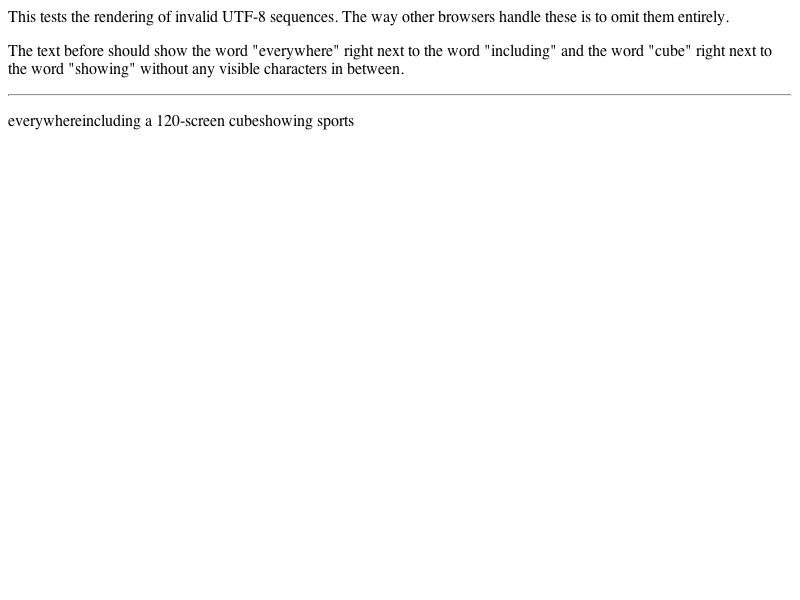
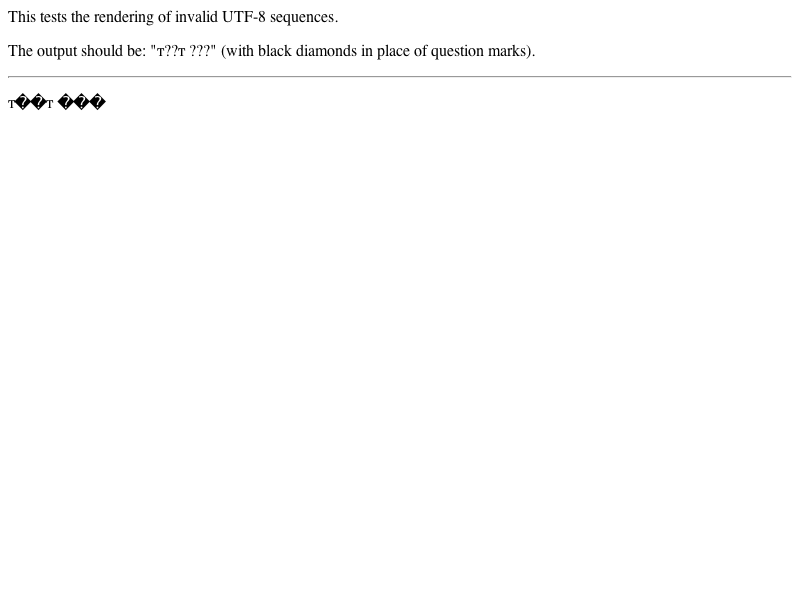
Reviewed by Darin.
- http://bugzilla.opendarwin.org/show_bug.cgi?id=8972
        REGRESSION: invalid UTF-8 sequences are not displayed

        Test: LayoutTests/fast/encoding/invalid-UTF-8.html

        * dom/xml_tokenizer.cpp:
        (WebCore::getXHTMLEntity): Properly null-terminate the result. This didn't matter
        before, because the garbage at the end was guaranteed to be invalid UTF-8, and was
        omitted in appendOmittingUnwanted();

        * platform/StreamingTextDecoder.cpp:
        (WebCore::StreamingTextDecoder::appendOmittingBOM): Only omit BOM characters.
        Renamed back from appendOmittingUnwanted();

        (WebCore::StreamingTextDecoder::convertUsingICU):
        * platform/StreamingTextDecoder.h:
        Update for the above function renaming.

Identifier: 12536@main
git-svn-id: https://svn.webkit.org/repository/webkit/trunk@14911 268f45cc-cd09-0410-ab3c-d52691b4dbfc

Changed region(s): [[0.0, 0.0, 0.9688, 0.21]]

diff --git a/WebCore/platform/StreamingTextDecoder.cpp b/WebCore/platform/StreamingTextDecoder.cpp
@@ -42,7 +42,6 @@ StreamingTextDecoder::StreamingTextDecoder(const TextEncoding& encoding)
 {
 }
 
-static const UChar replacementCharacter = 0xFFFD;
 static const UChar BOM = 0xFEFF;
 static const size_t ConversionBufferSize = 16384;
     
@@ -179,22 +178,15 @@ void StreamingTextDecoder::createICUConverter()
     }
 }
 
-// We strip replacement characters because the ICU converter for UTF-8 converts
-// invalid sequences into replacement characters, but other browsers discard them.
 // We strip BOM characters because they can show up both at the start of content
 // and inside content, and we never want them to end up in the decoded text.
-static inline bool unwanted(UChar c)
-{
-    return c == replacementCharacter || c == BOM;
-}
-
-void StreamingTextDecoder::appendOmittingUnwanted(DeprecatedString& s, const UChar* characters, int byteCount)
+void StreamingTextDecoder::appendOmittingBOM(DeprecatedString& s, const UChar* characters, int byteCount)
 {
     ASSERT(byteCount % sizeof(UChar) == 0);
     int start = 0;
     int characterCount = byteCount / sizeof(UChar);
     for (int i = 0; i != characterCount; ++i) {
-        if (unwanted(characters[i])) {
+        if (BOM == characters[i]) {
             if (start != i)
                 s.append(reinterpret_cast<const QChar*>(&characters[start]), i - start);
             start = i + 1;
@@ -228,7 +220,7 @@ DeprecatedString StreamingTextDecoder::convertUsingICU(const unsigned char* chs,
         err = U_ZERO_ERROR;
         ucnv_toUnicode(m_converterICU, &target, targetLimit, &source, sourceLimit, offsets, flush, &err);
         int count = target - buffer;
-        appendOmittingUnwanted(result, reinterpret_cast<const UChar*>(buffer), count * sizeof(UChar));
+        appendOmittingBOM(result, reinterpret_cast<const UChar*>(buffer), count * sizeof(UChar));
     } while (err == U_BUFFER_OVERFLOW_ERROR);
 
     if (U_FAILURE(err)) {

diff --git a/WebCore/dom/xml_tokenizer.cpp b/WebCore/dom/xml_tokenizer.cpp
@@ -717,7 +717,7 @@ static xmlEntityPtr getXHTMLEntity(const xmlChar* name)
     assert(value.length() < 5);
     sharedXHTMLEntity.length = value.length();
     sharedXHTMLEntity.name = name;
-    memcpy(sharedXHTMLEntityResult, value.data(), sharedXHTMLEntity.length);
+    memcpy(sharedXHTMLEntityResult, value.data(), sharedXHTMLEntity.length + 1);
 
     return &sharedXHTMLEntity;
 }

diff --git a/WebCore/platform/StreamingTextDecoder.h b/WebCore/platform/StreamingTextDecoder.h
@@ -51,7 +51,7 @@ namespace WebCore {
 
         void createICUConverter();
 
-        static void appendOmittingUnwanted(DeprecatedString&, const UChar* characters, int byteCount);
+        static void appendOmittingBOM(DeprecatedString&, const UChar* characters, int byteCount);
 
         TextEncoding m_encoding;
         bool m_littleEndian;
